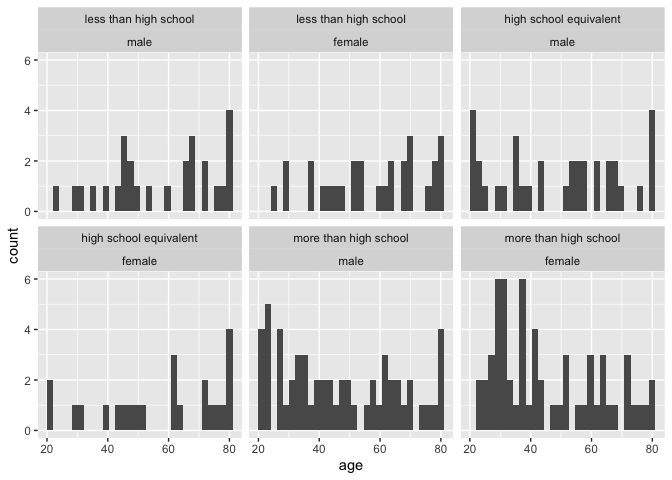
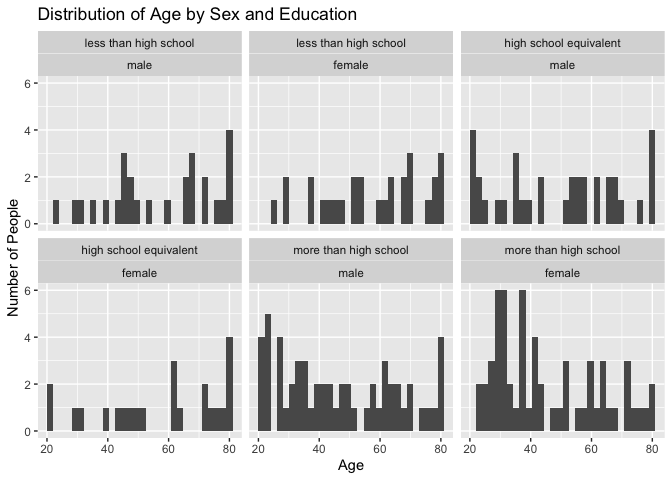
Finished problem 2

diff --git a/p8105_hw3_FA2818.md b/p8105_hw3_FA2818.md
@@ -237,7 +237,8 @@ nhanes_tidy = pivot_longer(
   names_to = "minute",
   names_prefix = "min",
   values_to = "MIMS"
-)
+) |> 
+  mutate(minute = as.integer(minute))
 ```
 
 Making first table
@@ -272,9 +273,109 @@ nhanes |>
 nhanes |> 
   ggplot(aes(x = age)) +
   geom_histogram() +
-  facet_wrap(education ~sex)
+  facet_wrap(education ~sex) +   
+  labs(
+    title = "Distribution of Age by Sex and Education",
+    x = "Age",
+    y = "Number of People"
+  )
 ```
 
     ## `stat_bin()` using `bins = 30`. Pick better value `binwidth`.
 
 ![](p8105_hw3_FA2818_files/figure-gfm/unnamed-chunk-13-1.png)<!-- -->
+The age distributions are generally uniform across sex and education
+groups, although there are more participants with greater than a high
+school education. This group also seems to skew younger, with a larger
+proportion of participants at younger ages.
+
+``` r
+nhanes_total = nhanes_tidy |> 
+  group_by(SEQN, age, sex, education) |> 
+  summarize(
+    total_activity = sum(MIMS, na.rm = TRUE)
+    )
+```
+
+    ## `summarise()` has regrouped the output.
+    ## ℹ Summaries were computed grouped by SEQN, age, sex, and education.
+    ## ℹ Output is grouped by SEQN, age, and sex.
+    ## ℹ Use `summarise(.groups = "drop_last")` to silence this message.
+    ## ℹ Use `summarise(.by = c(SEQN, age, sex, education))` for per-operation
+    ##   grouping (`?dplyr::dplyr_by`) instead.
+
+``` r
+nhanes_total |> 
+  ggplot(aes(x = age, y = total_activity, color = sex)) +
+  geom_point(alpha = 0.75) +
+  geom_smooth(se = FALSE) +
+  facet_wrap(~education) +
+  labs(
+    title = "Total Daily Activity by Age",
+    x = "Age",
+    y = "Total Daily Activity",
+    color = "Sex"
+  )
+```
+
+    ## `geom_smooth()` using method = 'loess' and formula = 'y ~ x'
+
+![](p8105_hw3_FA2818_files/figure-gfm/unnamed-chunk-15-1.png)<!-- --> In
+general, total daily activity decreases with age. Among participants
+with less than a high school education, this decline is the sharpest,
+although there is an uptick around ages 50–60 for men and a smaller
+corresponding increase for women. However, given the relatively small
+sample size, these fluctuations could be due to outliers. For those with
+a high school equivalent education, activity peaks around age 40 for
+both sexes, decreases until approximately age 60, and then levels off.
+Among participants with more than a high school education, activity
+remains relatively stable from ages 20–60 before declining at older
+ages. Women generally have higher total activity than men in the high
+school equivalent and more than high school groups.
+
+``` r
+nhanes_time = nhanes_tidy |> 
+  group_by(education, sex, minute) |> 
+  summarize(
+    mean_MIMS = mean(MIMS, na.rm = TRUE),
+  )
+```
+
+    ## `summarise()` has regrouped the output.
+    ## ℹ Summaries were computed grouped by education, sex, and minute.
+    ## ℹ Output is grouped by education and sex.
+    ## ℹ Use `summarise(.groups = "drop_last")` to silence this message.
+    ## ℹ Use `summarise(.by = c(education, sex, minute))` for per-operation grouping
+    ##   (`?dplyr::dplyr_by`) instead.
+
+``` r
+nhanes_time |> 
+  ggplot(aes(x = minute, y = mean_MIMS, color = sex)) +
+  geom_line(alpha = 0.5) +
+  geom_smooth(se = FALSE) +
+  facet_wrap(. ~education) +
+  scale_x_continuous(
+    breaks = c(0, 360, 720, 1080, 1440),
+    labels = c("12 AM", "6 AM", "12 PM", "6 PM", "12 AM")
+  ) +
+  labs(
+    title = "Average Activity Throughout the Day",
+    x = "Time of Day",
+    y = "Average MIMS",
+    color = "Sex"
+  )
+```
+
+    ## `geom_smooth()` using method = 'gam' and formula = 'y ~ s(x, bs = "cs")'
+
+![](p8105_hw3_FA2818_files/figure-gfm/unnamed-chunk-17-1.png)<!-- -->
+Across all three education levels, the general pattern is similar.
+Activity is lowest during the night, reaching its minimum around 4 AM,
+before increasing rapidly between 6 AM and noon. Activity generally
+peaks around noon, remains relatively high until 6 PM, and then steadily
+declines throughout the evening. The high school equivalent and more
+than high school groups show similar patterns, with activity remaining
+fairly constant between noon and 6 PM. In contrast, the less than high
+school group reaches a higher peak around noon, followed by a more
+gradual decline throughout the afternoon and a sharper decrease after 6
+PM.
